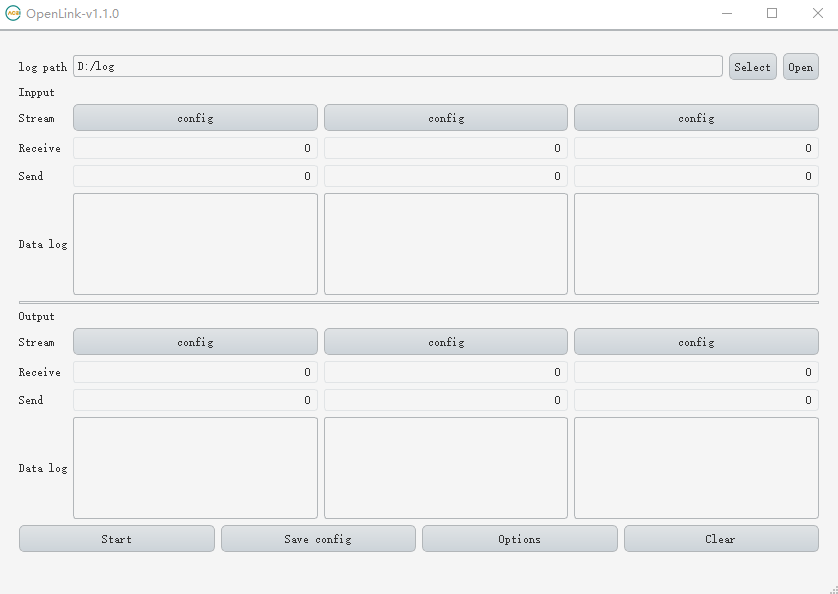
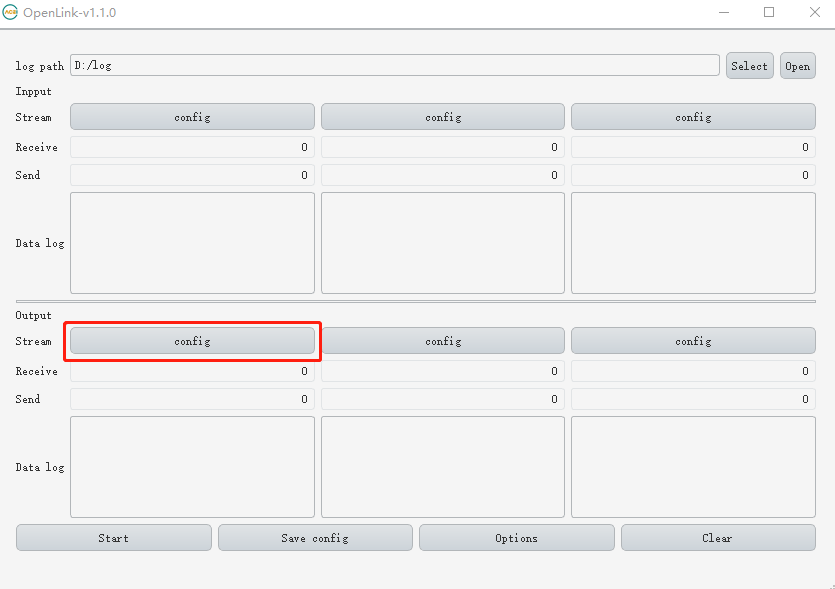
english readme

diff --git a/Openlink/README-En.md b/Openlink/README-En.md
@@ -1,0 +1,35 @@
+# How to use openrtk as a base station
+
+Openlink download：<https://github.com/Aceinna/openrtk_core/releases>
+
+Select a path to save log file.
+
+![avatar](./img/1.png)
+
+Connect openrtk330 serial port to computer, click the first [config] button of [Input] [Stream] open the configuration dialog.
+
+![avatar](./img/2.png)
+ 
+Check the [Input-1], select [Serial Port] for [Stream], select the second serial port, select 460800 for [Bitrate], finally, click the [OK] button.
+
+![avatar](./img/3.png)
+
+Click the first [config] button of [Output] [Stream] open the configuration dialog.
+
+![avatar](./img/4.png)
+
+Check [Output-1], select [NTRIP Client/Caster] for [Stream] , input [Host], [Port] , [Mountpoint] and so on, click the [OK] button.
+
+![avatar](./img/5.png)
+
+Click [Options] to open the station’s configuration dialog window.
+
+![avatar](./img/6.png)
+
+Check the [Station ID] and input station id，input latitude, longitude and height when selected [Lat/Lon/Height] or input x , y and z when selected [X/Y/Z], if [use pos in type(999)] is checked, the position in type 999 will be used.
+
+![avatar](./img/7.png)
+
+Click [start] to upload data as a base station.
+
+![avatar](./img/8.png)
